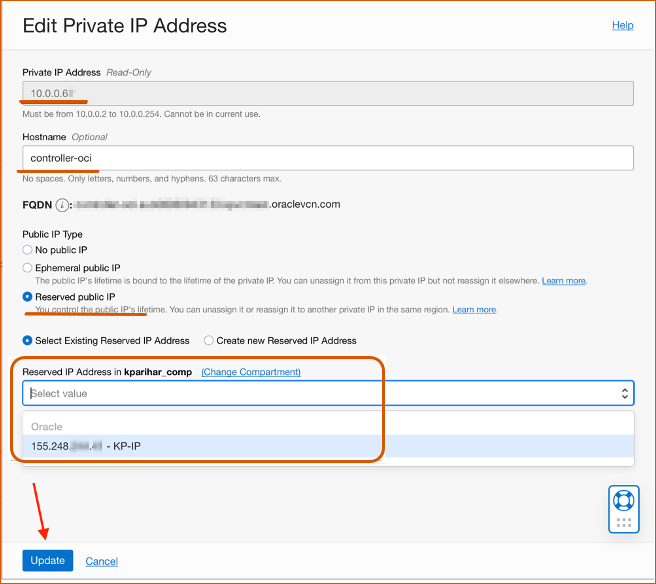
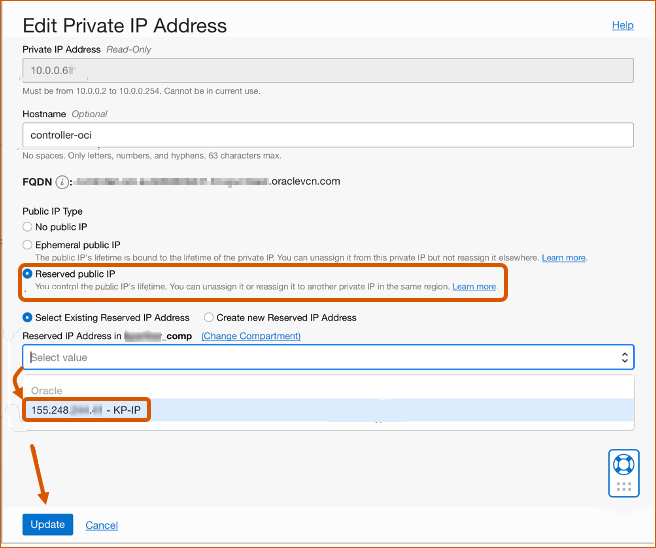
Formatting & screenshot edits

Changed region(s): [[0.0, 0.031, 0.9756, 0.9307], [0.0305, 0.8686, 0.1829, 0.9927], [0.9146, 0.031, 0.9756, 0.062]]

diff --git a/HowTos/controller_migration.rst b/HowTos/controller_migration.rst
@@ -134,20 +134,20 @@ Controller Migration in OCI
 
 |oci_account_details|
 
+.. important::
+
+  Make sure that the **Permanently delete the attached boot volume** checkbox is *unmarked* while terminating. This step saves the old Controller image to use for the new Controller.
+
+  |oci_permanently_delete_unchecked|
+
 2. Terminate the old Controller instance. In your OCI account, go to  Compute > Instances > Controller Instance > More actions > Terminate. Click **Terminate instance**.
 
 |oci_terminate|
 
-.. important::
-
-  Make sure that the Permanently delete the attached boot volume checkbox is **unmarked** while terminating. This step saves the old Controller image to use for the new Controller.
-
-  |oci_permanently_delete_unchecked|
-
-2. Create a new Controller instance. Go to OCI Console > Menu > Compute > Instances > click **Create instance**. Refer to `these instructions <https://docs.aviatrix.com/StartUpGuides/google-aviatrix-cloud-controller-startup-guide.html>`_.
-3. The Launching instance page opens. Enter the details of the Controller as per old Controller instance.
-4. Add the appropriate ssh public key file and click **Create** to launch the instance.
-5. Move the Controller's public IP address. Follow the steps below.
+3. Create a new Controller instance. Go to OCI Console > Menu > Compute > Instances > click **Create instance**. Refer to `these instructions <https://docs.aviatrix.com/StartUpGuides/google-aviatrix-cloud-controller-startup-guide.html>`_.
+4. The Launching instance page opens. Enter the details of the Controller as per the old Controller instance.
+5. Add the appropriate ssh public key file and click **Create** to launch the instance.
+6. Move the Controller's public IP address. Follow the steps below.
 
 Move your OCI Controller's Public IP Address
 --------------------------------------------------------
@@ -160,7 +160,7 @@ Move your OCI Controller's Public IP Address
 
 |oci_click_edit|
 
-3. Go to Public IP type > Select reserved IP address > Select the Public IP reserved for controller > click **Update**.
+3. Go to Public IP type > Select reserved IP address > Select the **Reserved public IP** radio button. Under Reserved IP Address in *Compartment_Name*, click on the dropdown menu and select the Public IP address reserved for your Controller. Then, click **Update**.
 
 |oci_click_update|
 
